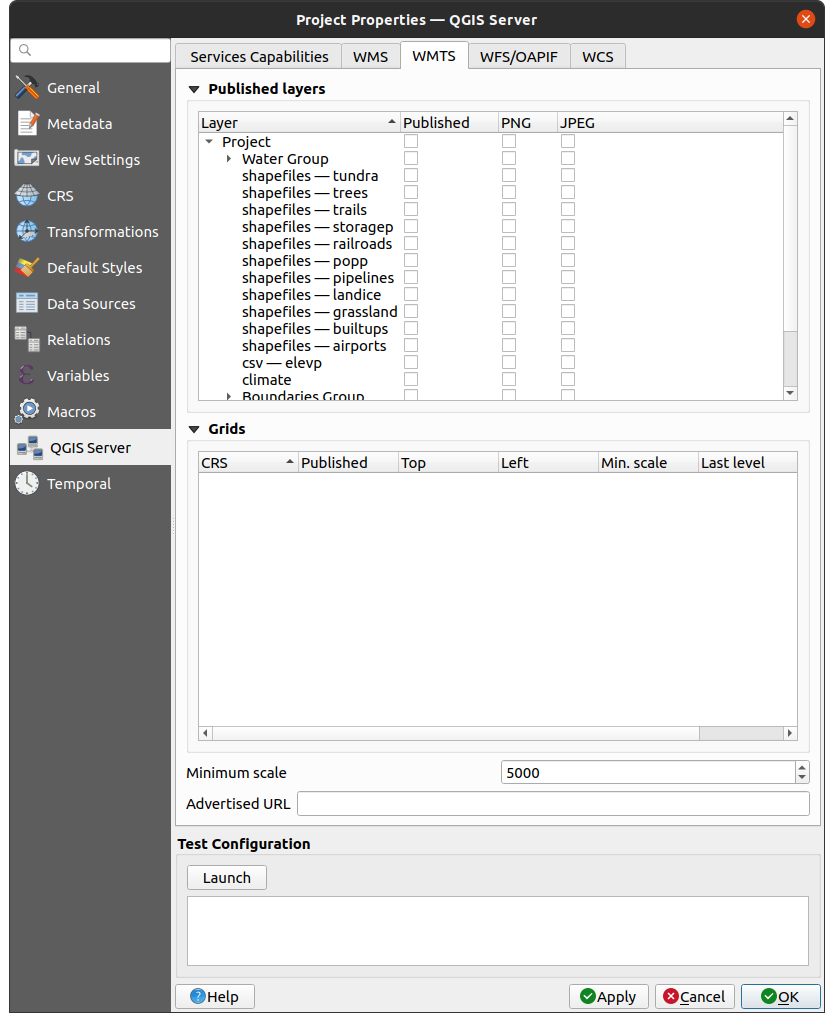
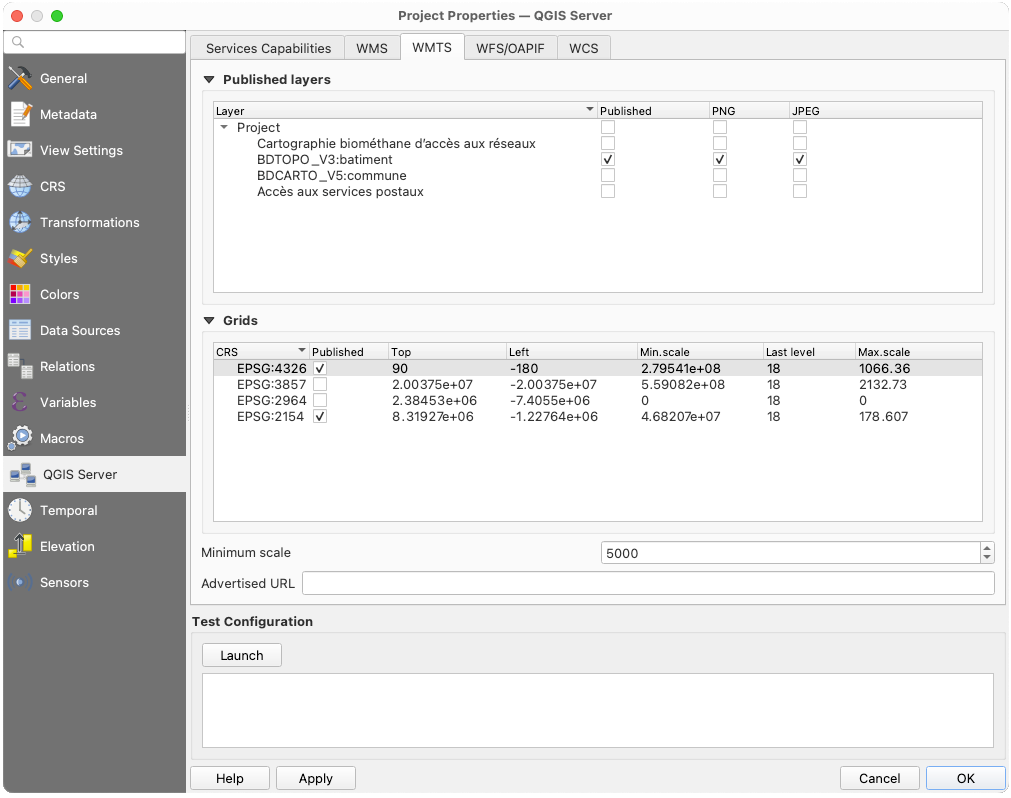
Adds WMTS tile matrices configuration
fixes #3371

diff --git a/docs/server_manual/getting_started.rst b/docs/server_manual/getting_started.rst
@@ -838,6 +838,8 @@ In the :guilabel:`WMS` tab, you can define the options for the WMS capabilities.
   The :ref:`spatial extent selector <extent_selector>` widget helps you enter the extent
   as a ``xmin, xmax, ymin, ymax`` text or pick it from the map canvas, layers, bookmarks...
 
+.. _restricted_crs:
+
 * By checking |checkbox| :guilabel:`CRS restrictions`, you can restrict
   in which coordinate reference systems (CRS) QGIS Server will offer
   to render maps. It is recommended that you restrict the offered CRS as this
@@ -945,15 +947,23 @@ WMTS capabilities
 In the :guilabel:`WMTS` tab you can select the layers you want to publish as WMTS
 and specify if you want to publish as PNG or JPEG.
 
+Under :guilabel:`Grids`, for each :ref:`restricted CRS <restricted_crs>`,
+you can indicate whether the tile matrices should be published
+and configure their top-left corner, minimum and maximum scales
+and the last level of the tile matrices.
+Note that for ``EPSG:3857`` and ``EPSG:4326`` CRS, only the last level of the tile matrices can be edited.
+
+You can also set a :guilabel:`Minimum scale` for the tiles display.
+
+If you enter a URL in the :guilabel:`Advertised URL` field,
+QGIS Server will advertise this specific URL in the WMTS GetCapabilities response.
+
 .. _figure_wmts_definitions:
 
 .. figure:: img/ows_server_wmts.png
    :align: center
 
    Definitions in the WMTS tab
-
-If you enter a URL in the :guilabel:`Advertised URL` field,
-QGIS Server will advertise this specific URL in the WMTS GetCapabilities response.
 
 WFS/OAPIF capabilities
 ----------------------
